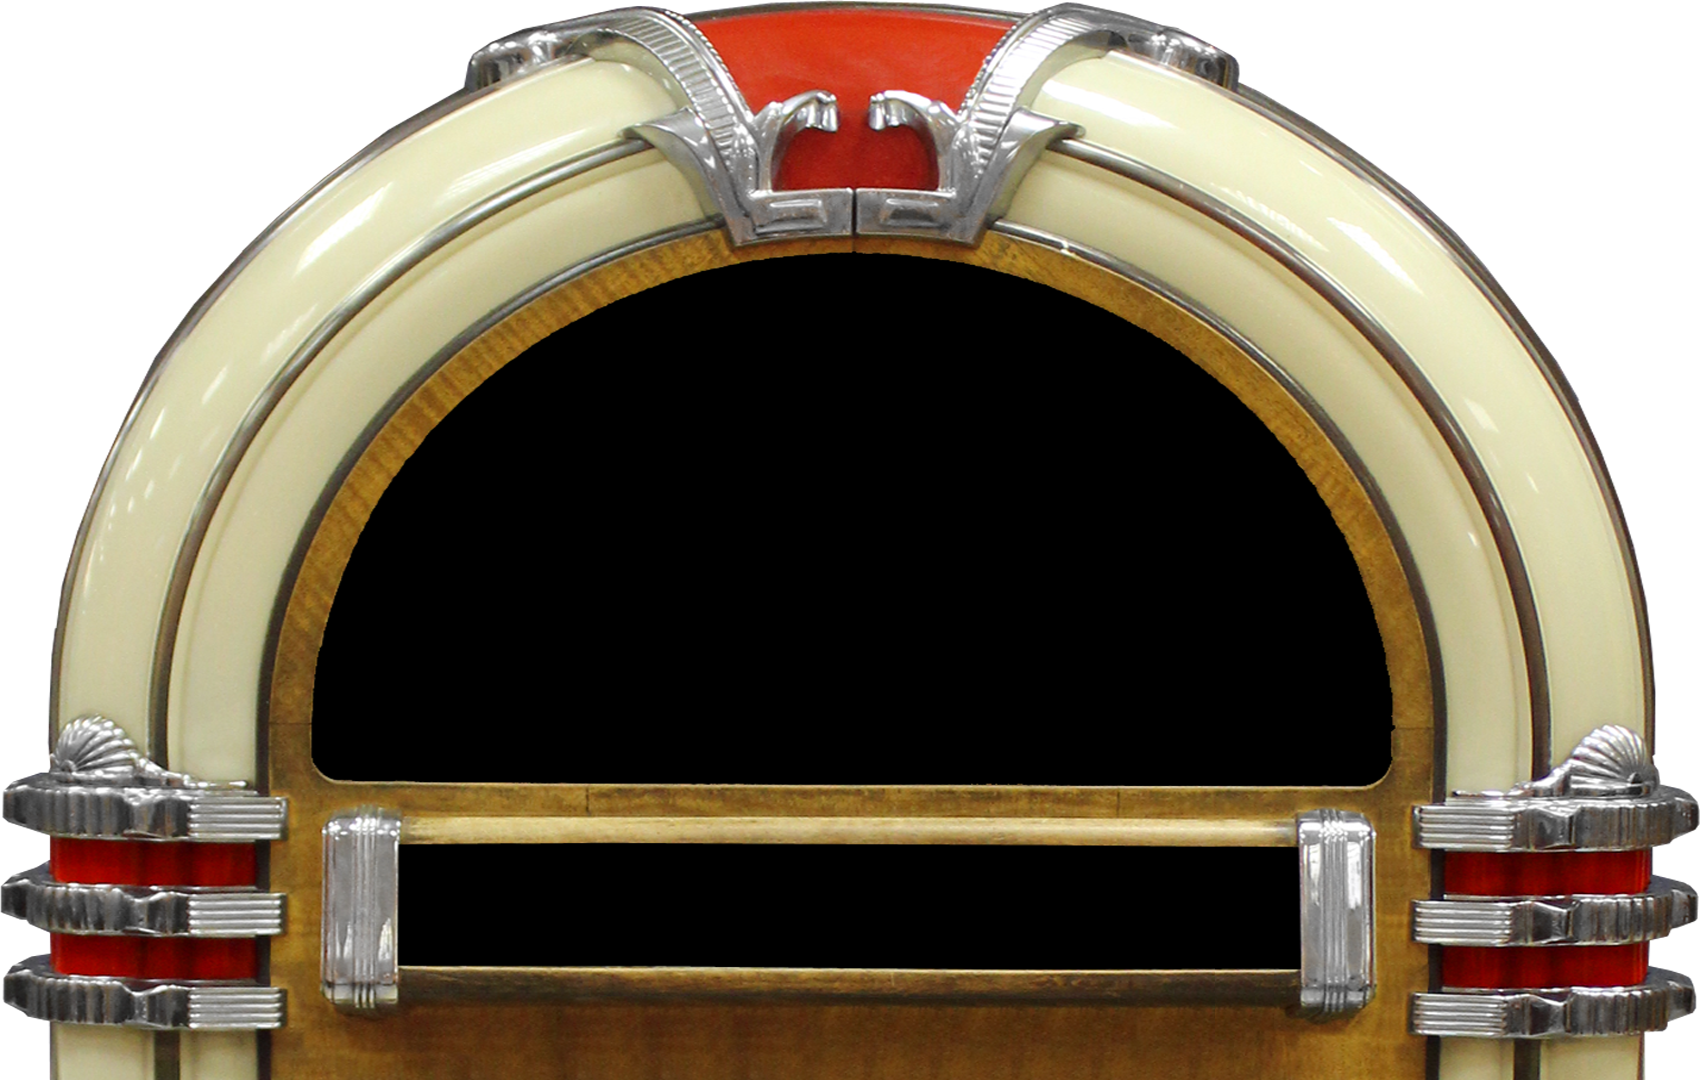
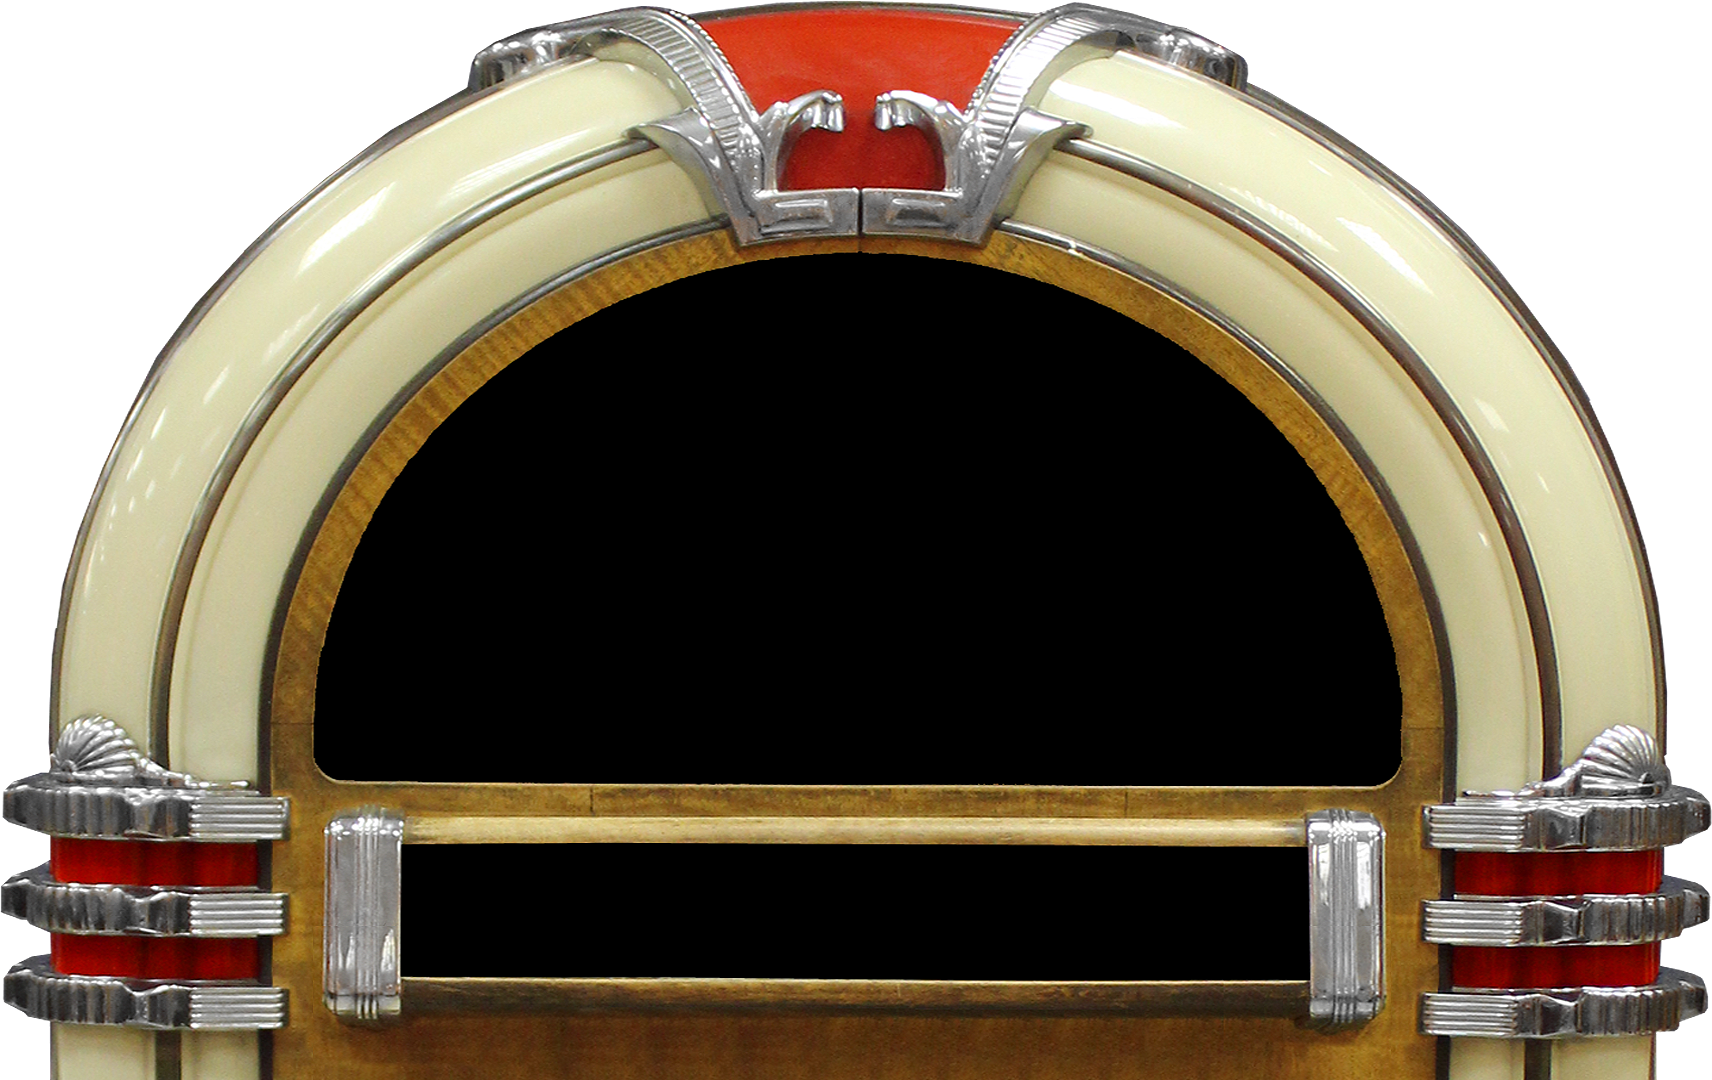
added media query

Changed region(s): [[0.1871, 0.8556, 0.8106, 0.9778]]

diff --git a/public/stylesheets/style.css b/public/stylesheets/style.css
@@ -24,19 +24,19 @@ main {
 }
 
 h1 {
-  margin: -1px 0 38px 2px;
+  margin: -1px auto 0 auto;
   text-align: left;
 }
 
 .screen {
-  margin: 60px auto 0 auto;
+  margin: 98px auto 0 215px;
   grid-row: span 2;
   background-color: rgba(255,255,255,.2);
   padding: 10px;
-  width: 780px;
-  height: 360px;
-  border-top-left-radius: 360px;
-  border-top-right-radius: 360px;
+  width: 800px;
+  height: 364px;
+  border-top-left-radius: 364px;
+  border-top-right-radius: 364px;
   border-bottom-left-radius: 10px;
   border-bottom-right-radius: 10px;
 }
@@ -45,8 +45,8 @@ h1 {
 footer {
   grid-area: footer;
   grid-row: span 2;
-  width: 620px;
-  height: 85px;
+  width: 670px;
+  height: 90px;
   margin: -30px auto 0 auto;
   color: white;
 }
@@ -133,3 +133,153 @@ form {
 .submitButton {
   margin: 10px auto;
 }
+
+@media only screen  and (max-width : 1224px) {
+  body {
+    padding: 7px;
+    margin: 3px auto;
+    background-size: 75%;
+  }
+  main {
+    height: 82%;
+  }
+  h1 {
+    margin: -1px auto 0 auto;
+  }
+  .screen {
+    margin: 74px auto 0 161px;
+    padding: 7px;
+    width: 600px;
+    height: 273px;
+    border-top-left-radius: 273px;
+    border-top-right-radius: 273px;
+    border-bottom-left-radius: 7px;
+    border-bottom-right-radius: 7px;
+  }
+  footer {
+    width: 502px;
+    height: 50px;
+    margin: -22px auto 0 auto;
+  }
+  nav {
+    margin: 11px auto;
+  }
+  h5 {
+    margin: 0 auto -7px auto;
+  }
+  .genres {
+    margin: -15px auto;
+  }
+  
+  p {
+    width: 22%;
+    font-size: 8px;
+  }
+  .instructions {
+    margin: 0 37px 0 auto;
+  }
+  
+  .newButton {
+    margin: 0 auto 0 60px;
+  }
+  }
+
+@media only screen and (max-width : 768px) {
+  body {
+    padding: 5px;
+    margin: 2px auto;
+    background-size: 50%;
+  }
+  main {
+    height: 82%;
+  }
+  h1 {
+    margin: -1px auto 0 auto;
+  }
+  .screen {
+    margin: 48px auto 0 107px;
+    padding: 5px;
+    width: 400px;
+    height: 182px;
+    border-top-left-radius: 182px;
+    border-top-right-radius: 182px;
+    border-bottom-left-radius: 5px;
+    border-bottom-right-radius: 5px;
+  }
+  /* control panet */
+  footer {
+    width: 385px;
+    height: 45px;
+    margin: -15px auto 0 auto;
+  }
+  nav {
+    margin: 7px auto;
+  }
+  h5 {
+    margin: 0 auto -5px auto;
+  }
+  .genres {
+    margin: -10px auto;
+  }
+  p {
+    width: 15%;
+    font-size: 6px;
+  }
+  .instructions {
+    margin: 0 25px 0 auto;
+    float: right;
+  }
+  .newButton {
+    margin: 0 auto 0 40px;
+  }
+  }
+
+  @media only screen and (max-width : 321px) {
+    body {
+      padding: 2px;
+      margin: 1px auto;
+      background-size: 50%;
+    }
+    main {
+      height: 82%;
+    }
+    h1 {
+      margin: -1px auto 0 auto;
+    }
+    .screen {
+      margin: 24px auto 0 107px;
+      padding: 2px;
+      width: 200px;
+      height: 91px;
+      border-top-left-radius: 91px;
+      border-top-right-radius: 91px;
+      border-bottom-left-radius: 2px;
+      border-bottom-right-radius: 2px;
+    }
+    /* control panet */
+    footer {
+      width: 192px;
+      height: 22px;
+      margin: -7px auto 0 auto;
+    }
+    nav {
+      margin: 3px auto;
+    }
+    h5 {
+      margin: 0 auto -2px auto;
+    }
+    .genres {
+      margin: -5px auto;
+    }
+    p {
+      width: 7%;
+      font-size: 3px;
+    }
+    .instructions {
+      margin: 0 12px 0 auto;
+      float: right;
+    }
+    .newButton {
+      margin: 0 auto 0 20px;
+    }
+    }
